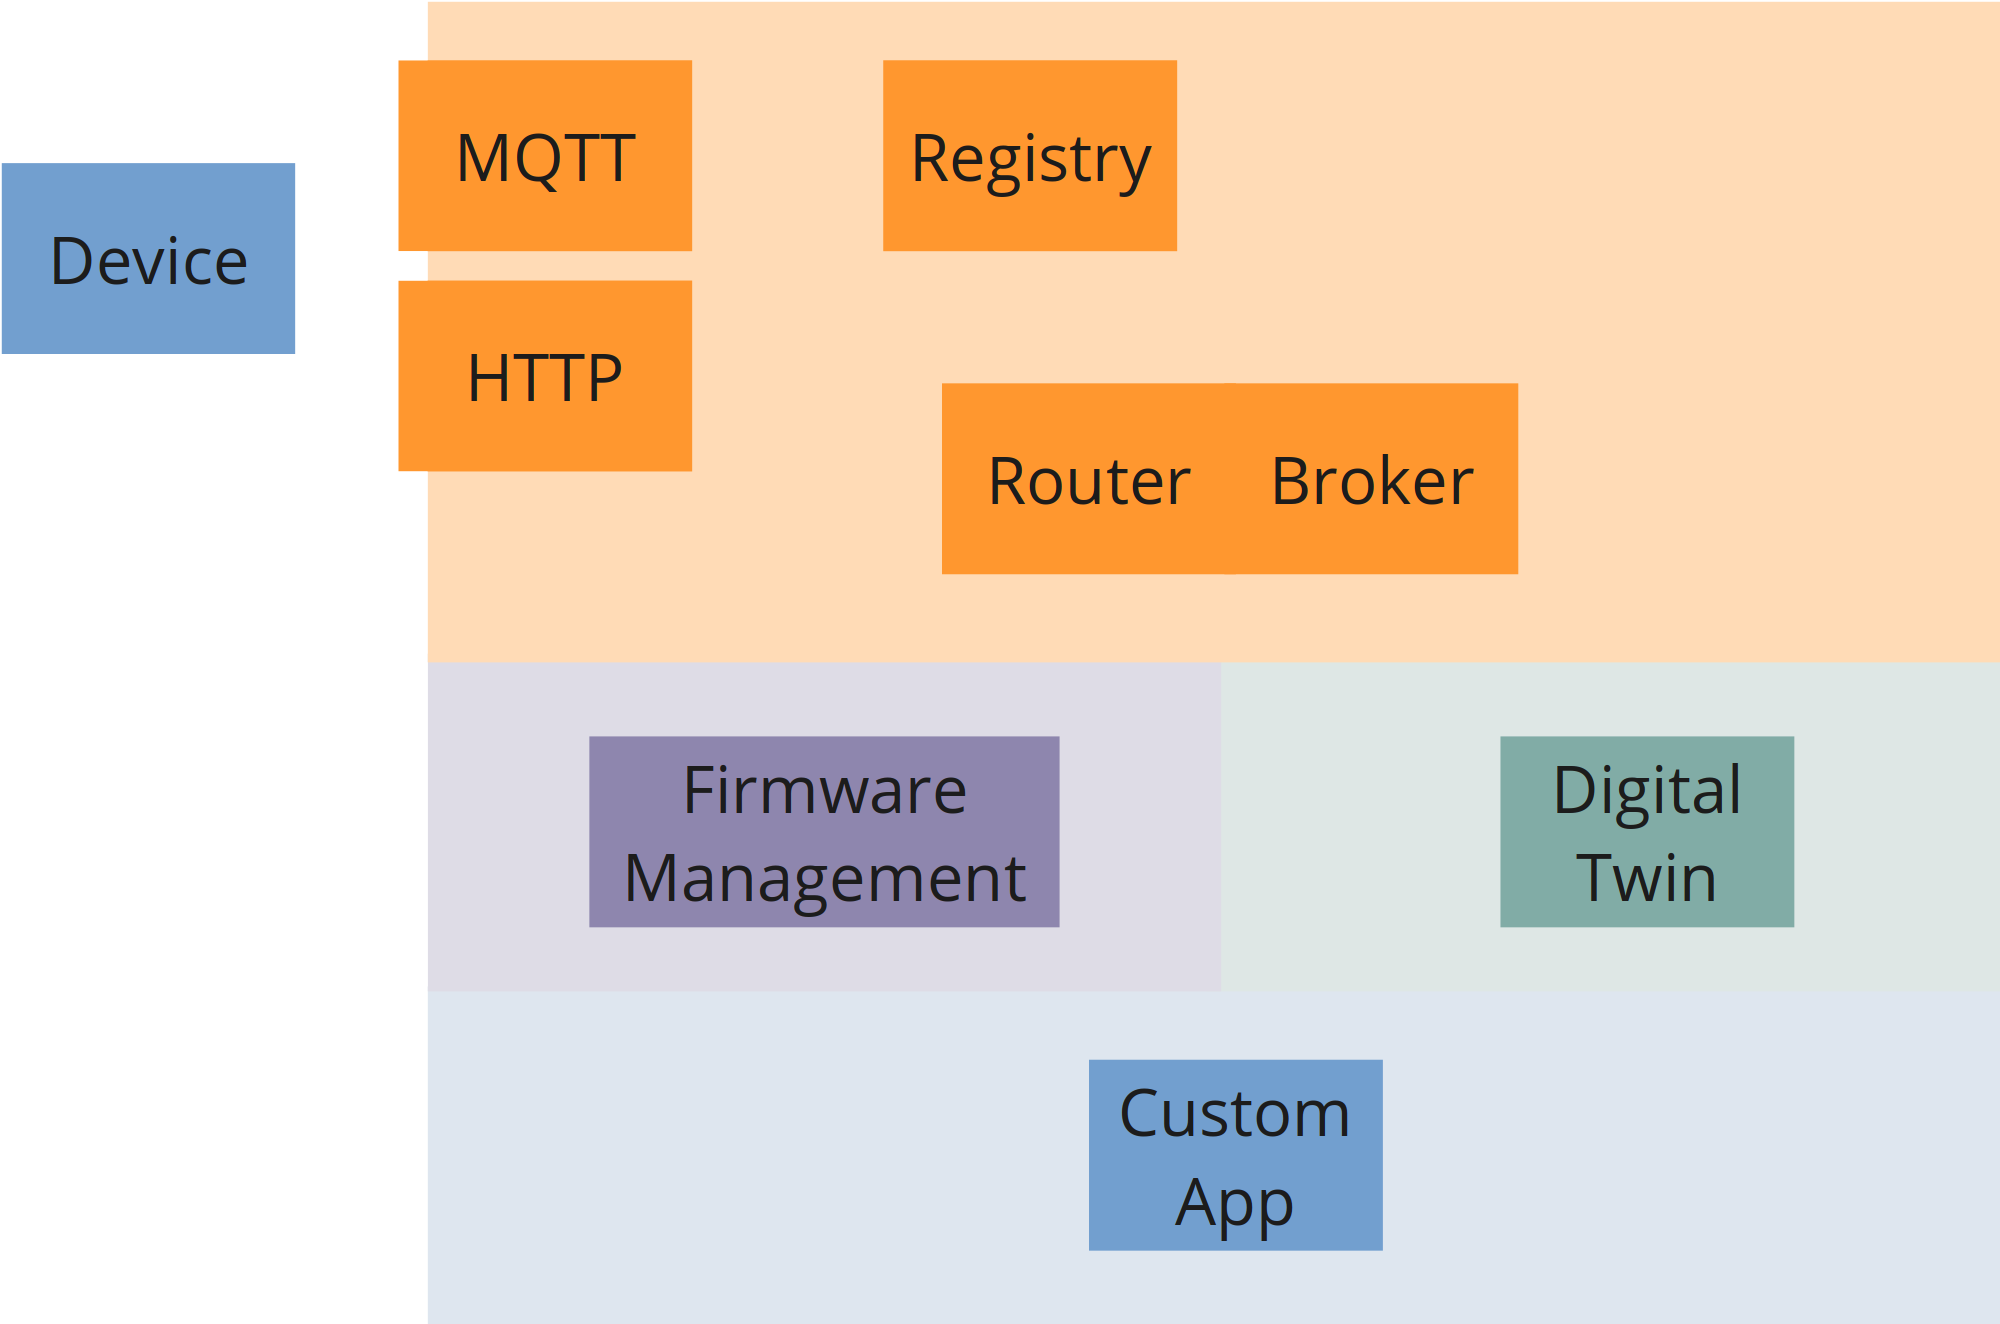
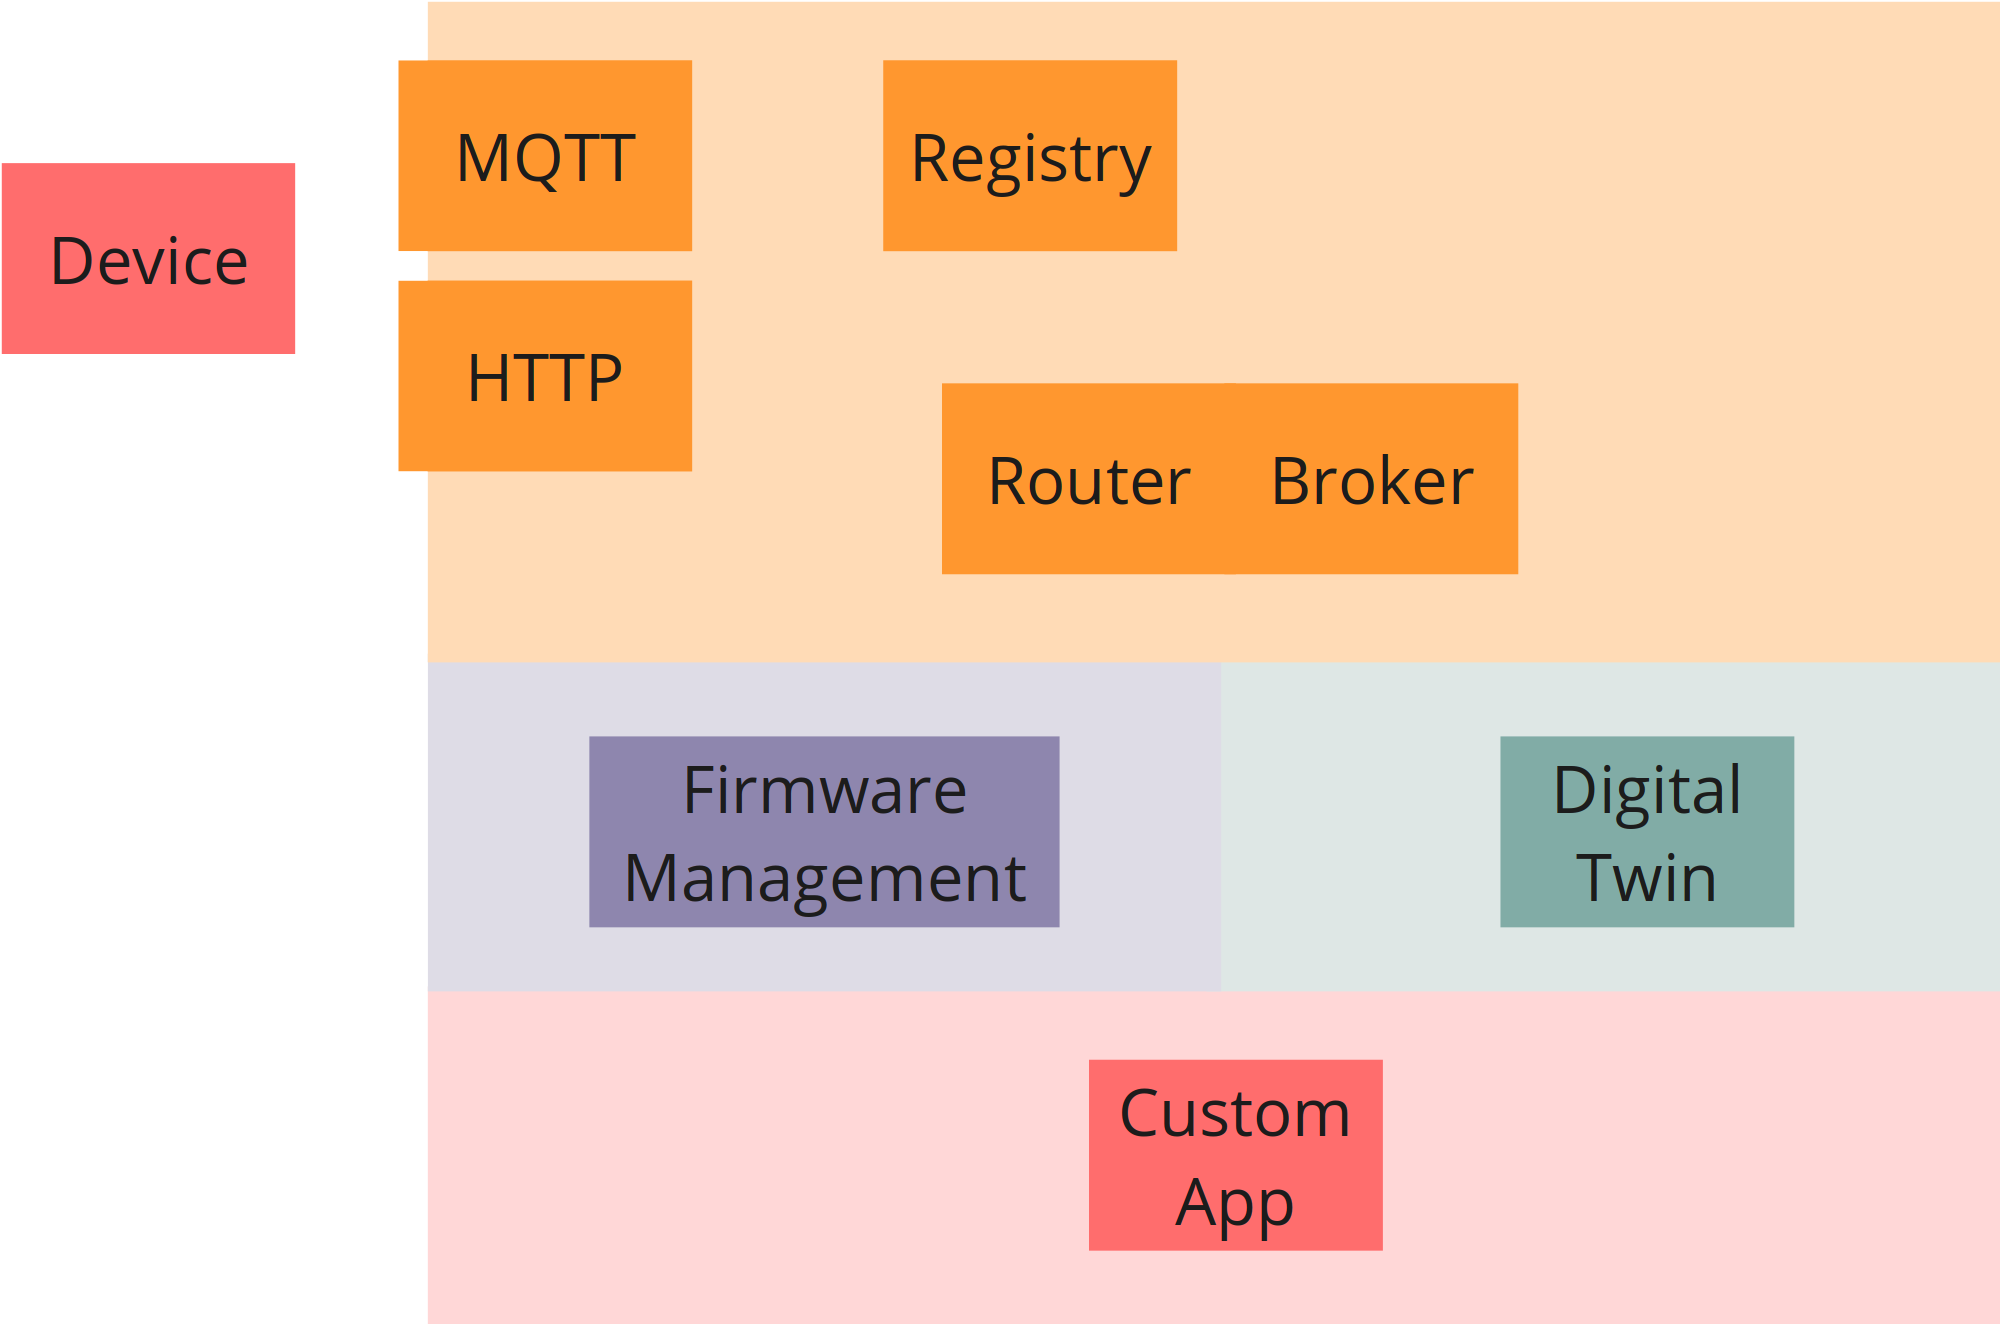
Website build Website/master-22

Changed region(s): [[0.217, 0.7432, 1.0, 1.0], [0.0, 0.1239, 0.155, 0.2787]]

diff --git a/packages/package-zero/index.html b/packages/package-zero/index.html
@@ -110,7 +110,7 @@ pre-process it, so that applications can work with more structured data.
 layer provided by Hono.
 </p>
 
-<p class="border-callout-left" style="border-color: #729fcf;">
+<p class="border-callout-left" style="border-color: #ff6d6d;">
 This enables your <strong>Custom Application</strong> to easily communicate with the devices, using a
 structured data model, a scalable messaging layer.
 </p>
